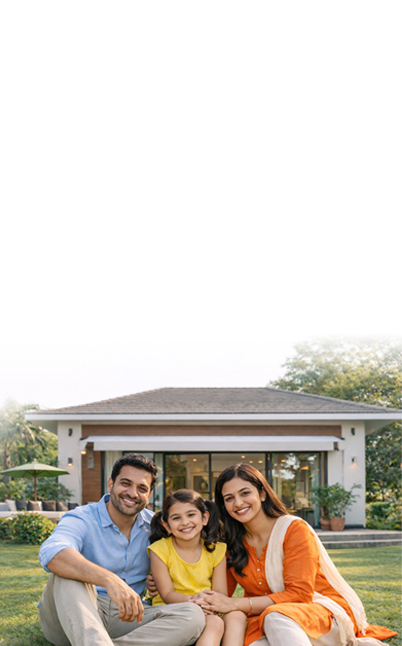
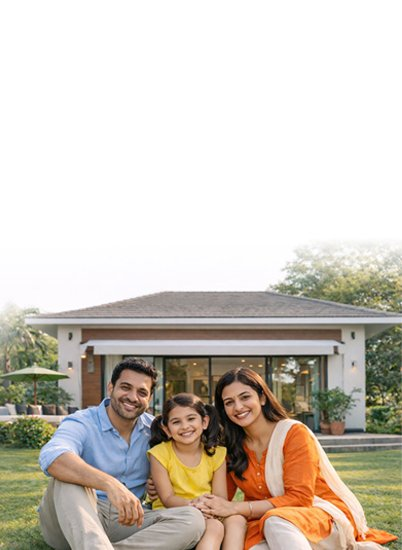
29-1-2026-1

diff --git a/frontend/web/src/components/Banner.tsx b/frontend/web/src/components/Banner.tsx
@@ -40,7 +40,7 @@ const Banner = () => {
 
         {/* Overlay */}
         <div className="absolute inset-0 flex items-center">
-          <div className="w-full md:w-[65%] bg-gradient-to-r from-white/95 via-white/80 to-transparent px-6 md:px-14 py-10 space-y-4">
+          <div className="w-full md:w-[65%]  px-6 md:px-14 py-10 space-y-4">
 
             {/* Badge */}
             <div className="flex items-center gap-2 px-4 py-2 bg-[#27AE60] backdrop-blur-md rounded-full w-fit shadow-sm">
@@ -51,7 +51,7 @@ const Banner = () => {
             </div>
 
             <h1 className="text-neutral-600 font-extrabold leading-tight text-2xl md:text-4xl lg:text-4xl">
-             Are you looking for a happy home like we were ?
+             Are you looking for a happy home ?
             </h1>
 
             <div className="h-[3.2rem] overflow-hidden">
@@ -79,13 +79,13 @@ const Banner = () => {
         />
 
         {/* Overlay */}
-        <div className="absolute inset-0 flex items-end">
-          <div className="w-full bg-gradient-to-t from-white/95 via-white/85 to-transparent px-5 py-8 space-y-3">
+        <div className="absolute inset-0 flex items-start">
+          <div className="w-full  px-5 py-8 space-y-3">
 
             {/* Badge */}
-            <div className="flex items-center gap-2 px-4 py-2 bg-white/90 backdrop-blur-md rounded-full w-fit shadow">
-              <IoHomeOutline className="w-4 h-4 text-emerald-700" />
-              <span className="text-sm font-semibold text-emerald-800 tracking-wide">
+            <div className="flex items-center gap-2 px-4 py-2 bg-[#27AE60] backdrop-blur-md rounded-full w-fit shadow-sm">
+              <IoHomeOutline className="w-4 h-4 text-white" />
+              <span className="text-sm font-semibold text-white tracking-wide">
                 Trusted Real Estate Platform
               </span>
             </div>

diff --git a/frontend/web/src/app/page.tsx b/frontend/web/src/app/page.tsx
@@ -14,7 +14,8 @@ export default function Home() {
   return (
     <div>
       <Banner/>
-
+        <br/>
+        <br/>
       <div className="container mx-auto  space-y-10">
         <FeaturedProjectsClient />
         <HighlightProjectsClient />
